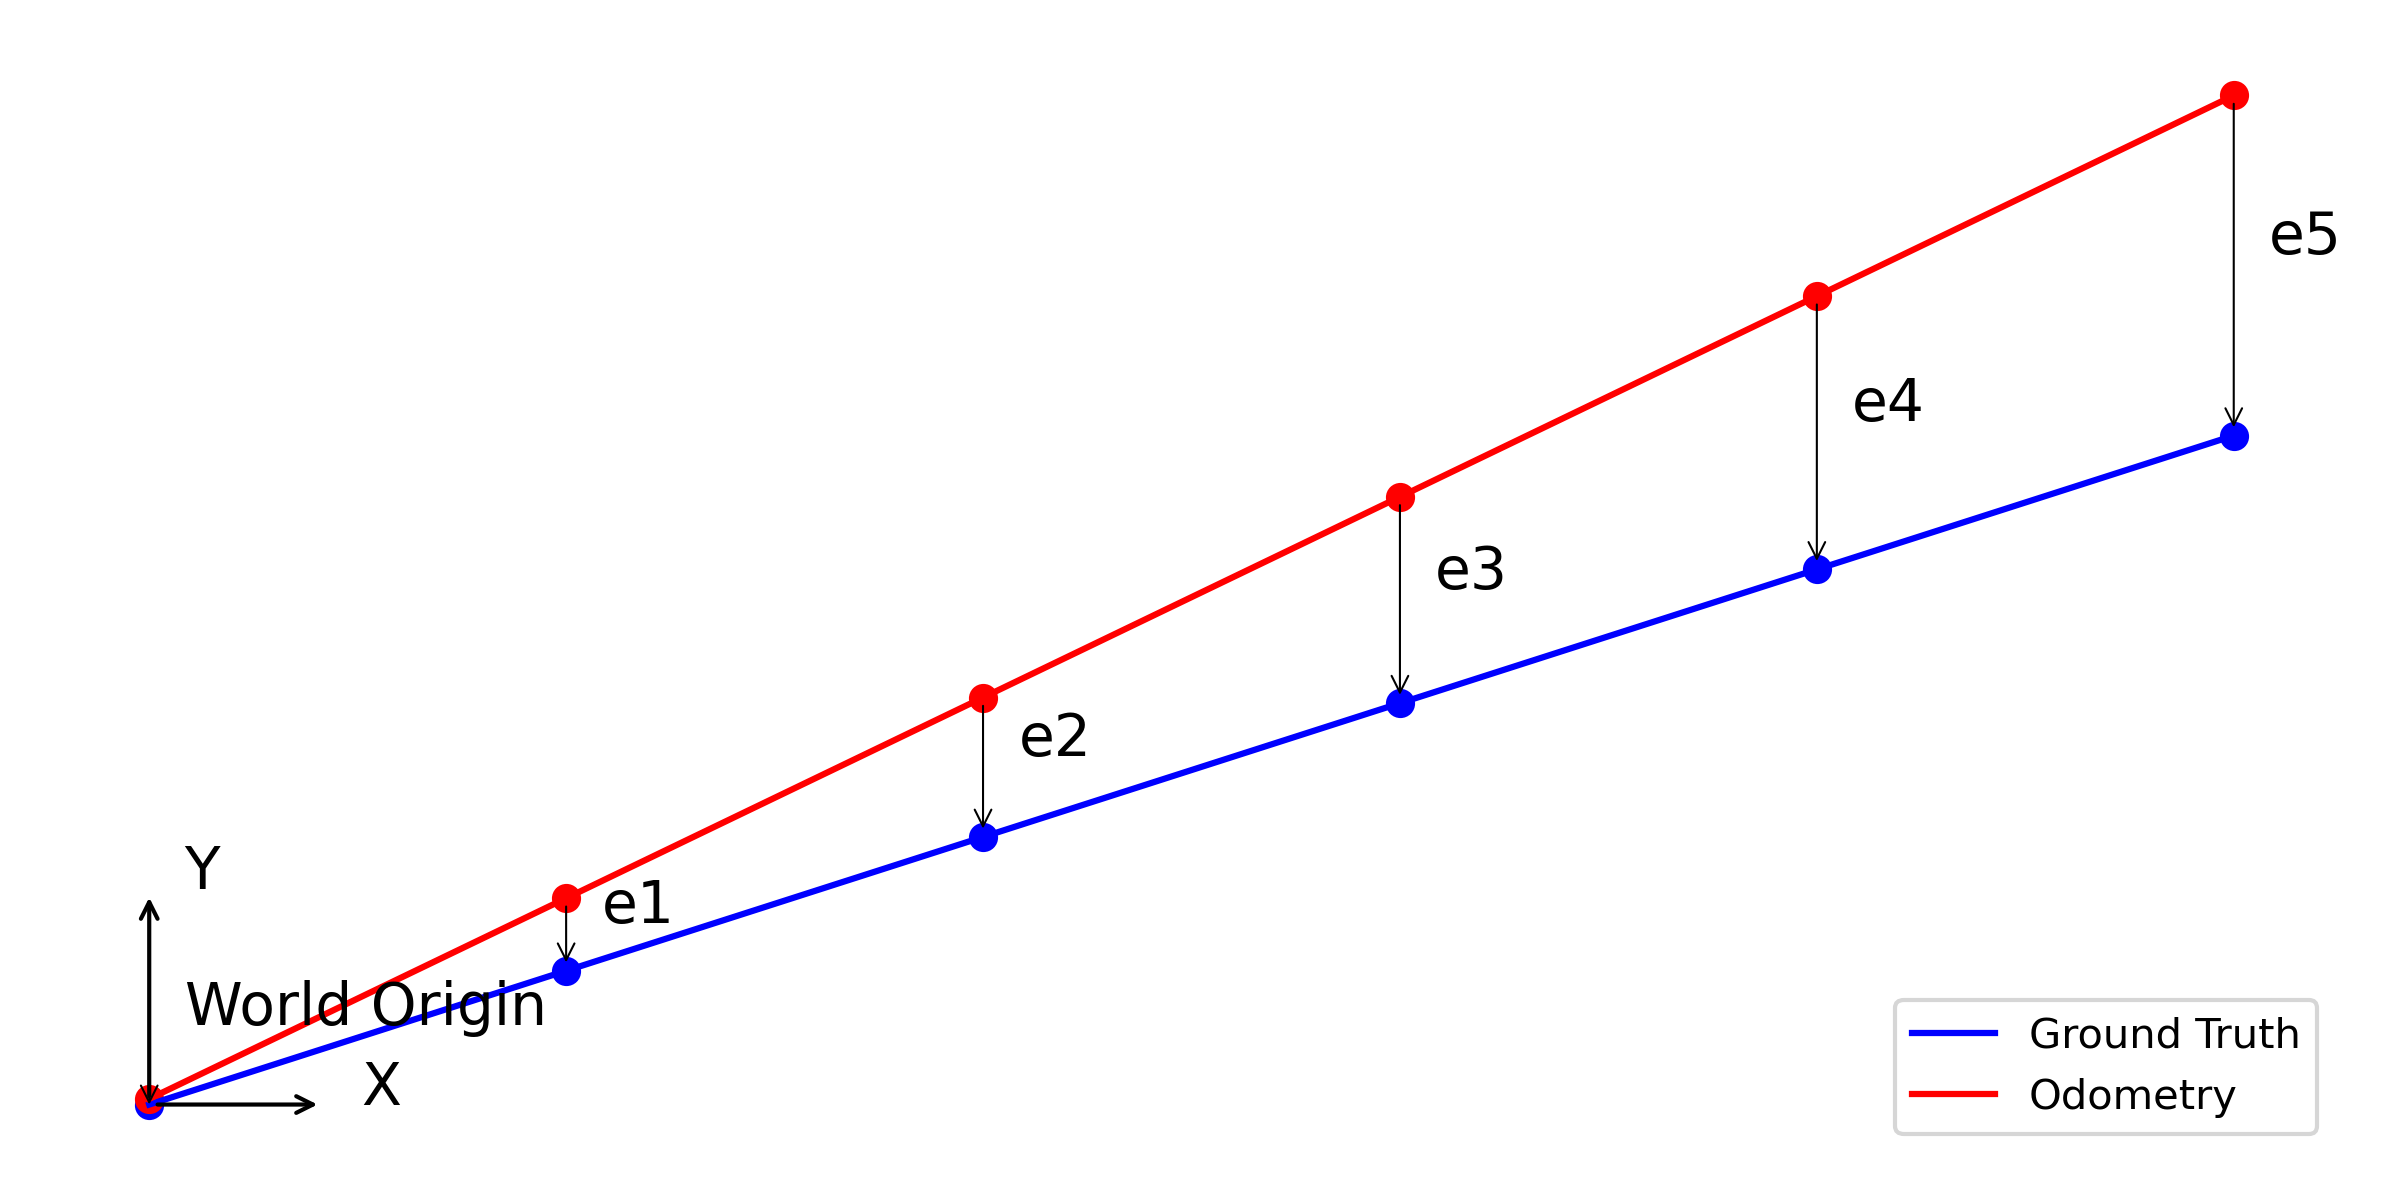
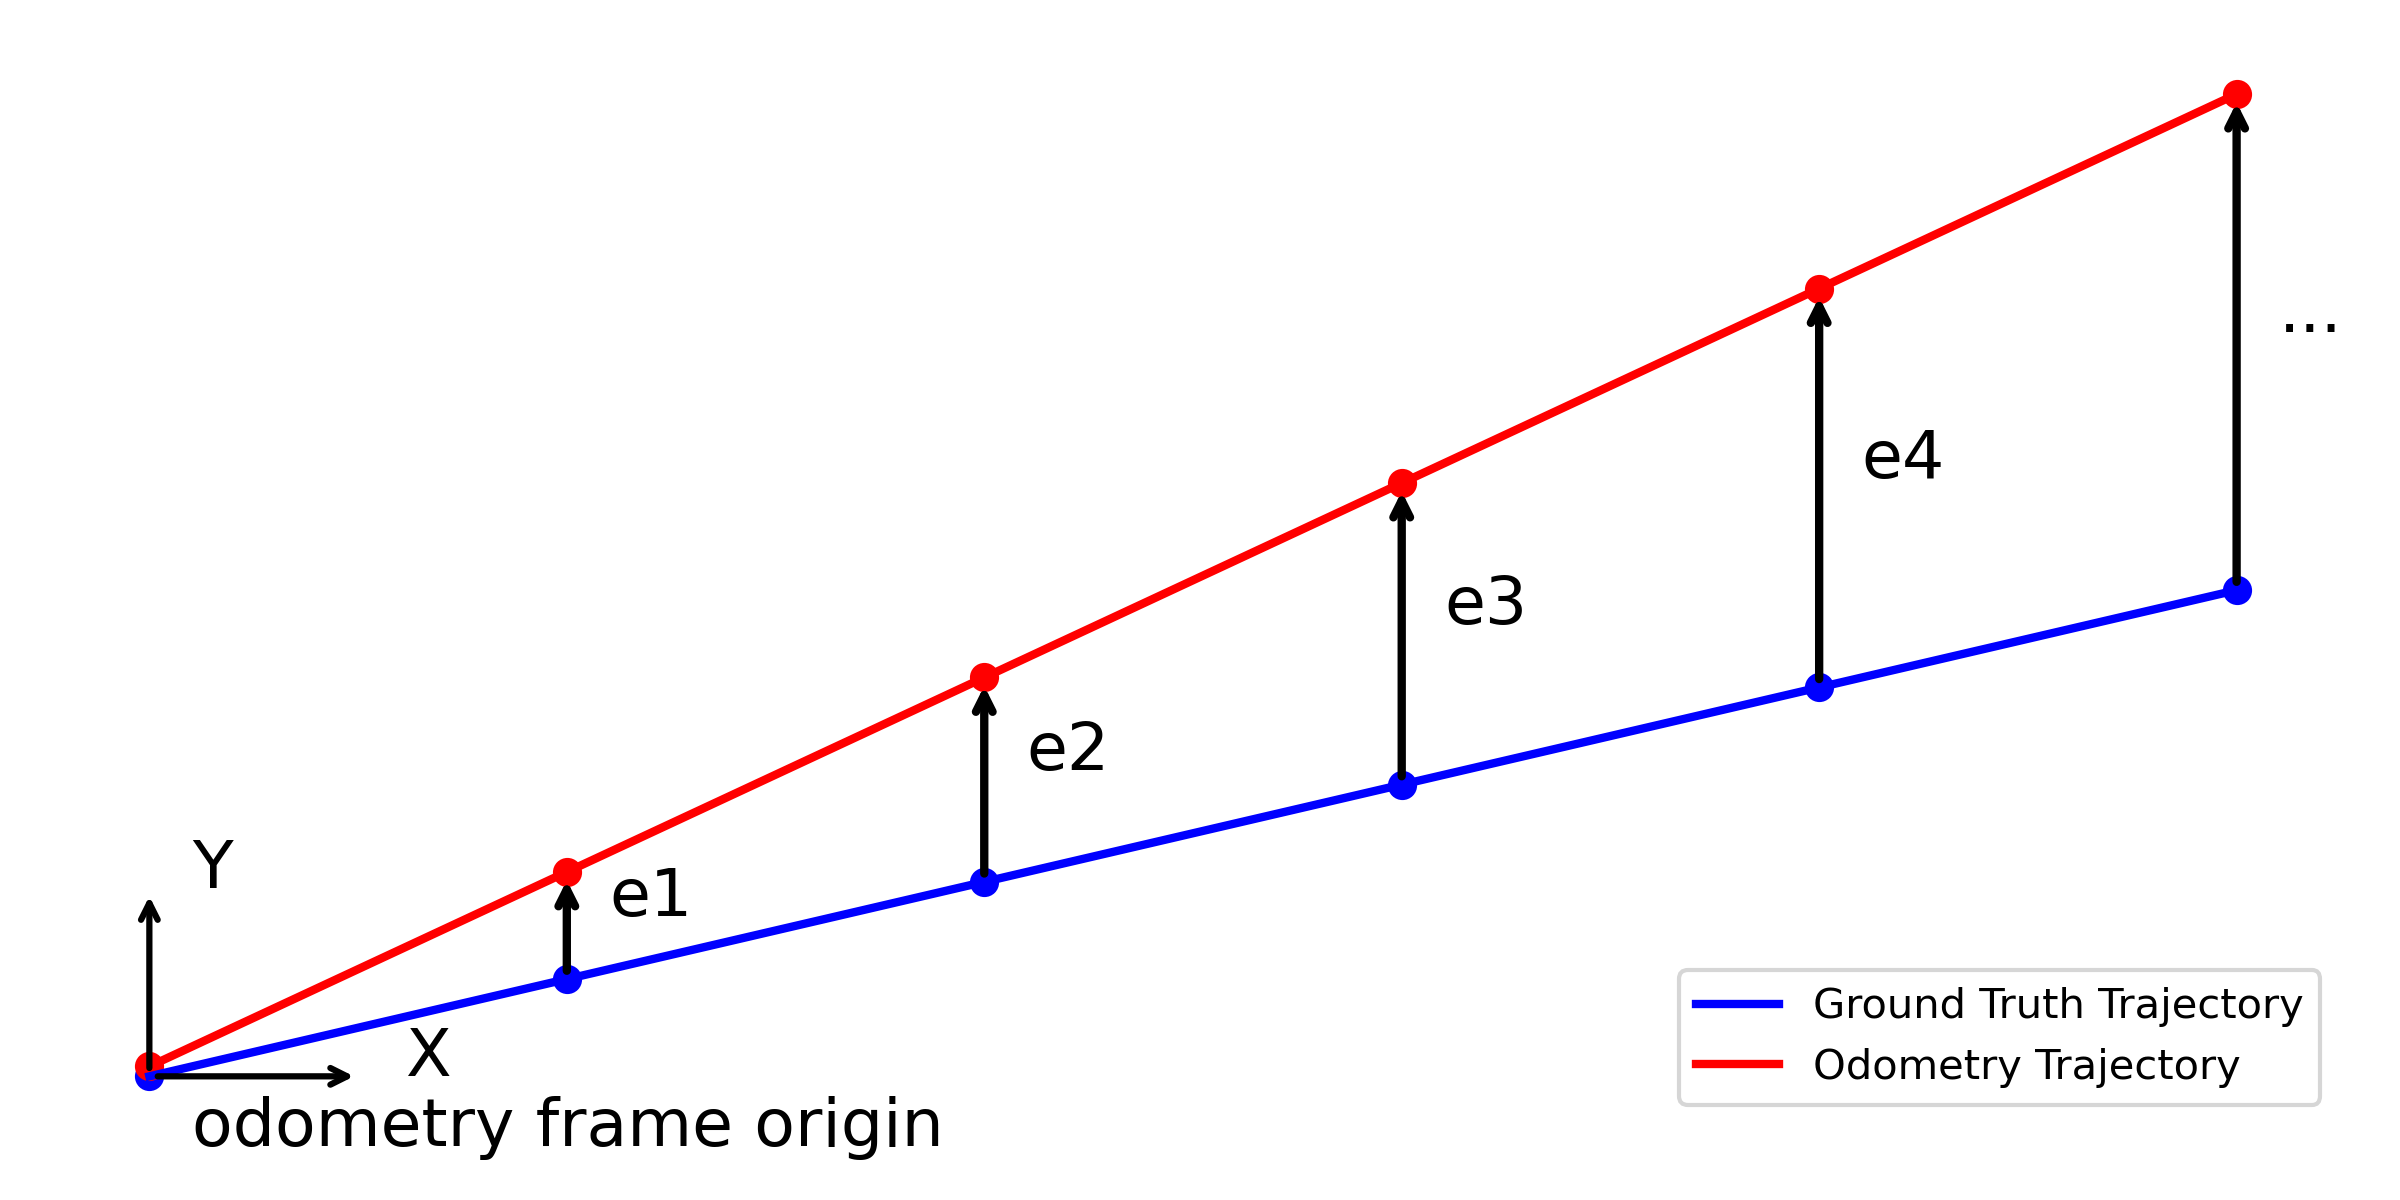
[quick-commit] update

diff --git a/chapters/ch07_experimentation_and_evaluation.tex b/chapters/ch07_experimentation_and_evaluation.tex
@@ -149,7 +149,7 @@
     
     \subsection{Trajectory Preprocessing and Comparisons}
     
-    For the evaluation, two main comparisons are considered. The first comparison is between the \gls{cvo} estimated trajectory and the ground truth trajectory. The second comparison is between the baseline odometry trajectory and the ground truth trajectory. The evaluation metrics are calculated for both comparisons. The evaluation is performed for a set of selected trajectories that are presented in Section~\ref{sec:experiment-site-terrain}. The ground truth pose estimates are recorded at a frequency of approximately $75$~Hz and the pose estimates from the \gls{cvoe} components are also logged at the same frequency. Even though the pose estimate samples are recorded at similar frequency, both data streams use different timestamps. To compare the two trajectories, the estimated timestamps and the ground truth timestamps are aligned. The data samples from the estimated trajectory are paired with the closest timestamp from the ground truth trajectory. Samples with the closest timestamp outside the allowed time difference are discarded. 
+    For the evaluation, two main comparisons are considered. The first comparison is between the \gls{cvo} estimated trajectory and the ground truth trajectory. The second comparison is between the baseline odometry trajectory and the ground truth trajectory. The evaluation metrics are calculated for both comparisons. The evaluation is performed for a set of selected trajectories that are presented in Section~\ref{sec:experiment-site-terrain}. The ground truth pose estimates are recorded at a frequency of approximately $75$~Hz and the pose estimates from the \gls{cvoe} components are also logged at the same frequency. Even though the pose estimate samples are recorded at similar frequency, both data streams use different timestamps. To compare the two trajectories, the estimated timestamps and the ground truth timestamps are aligned. The data samples from the estimated trajectory are paired with the closest timestamp from the ground truth trajectory. Samples with the closest timestamp outside the allowed time difference are discarded. After the alignment process, the estimated and the ground truth data streams have the same number of samples with the same timestamps. 
         
     Before comparing the trajectories, the initial pose of the estimated trajectory is aligned with the initial pose of the ground truth trajectory. The reference frame of the Vicon pose estimates is fixed and different from the odometry reference frame ($odom$) which is created at the starting location of the rover. The trajectories aligned by calculating the transformation between the initial pose of the estimated trajectory and the initial pose of the ground truth trajectory. The calculated transformation is applied to all the poses of the estimated trajectory. 
     
@@ -163,23 +163,60 @@
     \end{figure}
         
     \subsection{Relative Pose Error}
+    
+    The \gls{rpe} between the ground truth (gt) trajectory and the estimated (est) trajectory can be calculated using the following steps. Let a pose in the ground truth trajectory at index \texttt{i} is defined as Equation~\ref{eq:rpeGtPose} and a pose in estimated trajectory at the same index be defined as Equation~\ref{eq:rpeEstPose}. A distance based sliding window is created with the initial index \texttt{i} and a new index \texttt{j}, where $j>i$. Cumulative travel distance from the starting pose of the gt and every pose in the gt is calculated and stored. This cumulative distance is used when the sliding window is created. The window size is based on a pre-defined threshold value. This value is set to $0.5~m$ because SLAM algorithm runs every $0.5 m$ in translation.
+    
+    \begin{equation}
+        \mathbf{T}^{gt}_i =
+        \begin{bmatrix}
+            \mathbf{R}^{gt}_i & \mathbf{p}^{gt}_i \\
+            \mathbf{0} & 1
+        \end{bmatrix}
+    \label{eq:rpeGtPose}
+    \end{equation}
 
+    \begin{equation}
+        \mathbf{T}^{est}_i =
+        \begin{bmatrix}
+            \mathbf{R}^{est}_i & \mathbf{p}^{est}_i \\
+            \mathbf{0} & 1
+        \end{bmatrix}
+    \label{eq:rpeEstPose}
+    \end{equation}
+    
+    The Relative Pose Error is computed by comparing two relative poses, each derived from estimated and ground-truth trajectories independently. The first relative pose is obtained by transforming $\mathbf{T}^{est}_j$ into the local frame of $\mathbf{T}^{est}_i$. The second relative pose is obtained similarly by transforming $\mathbf{T}^{gt}_j$ into the local frame of $\mathbf{T}^{est}_i$. Since ${T}^{est}_i$ and $\mathbf{T}^{gt}_i$ do not coincide in the \texttt{odom} frame, each relative pose is expressed in its own local coordinate frame. The relative poses of gt and est are expressed as $\Delta\mathbf{T}^{gt}_{i,j}$ and $\Delta\mathbf{T}^{gt}_{i,j}$. The transformation of poses within the sliding window to their local frame and the calculation of \gls{rpe} are shown in Figure~\ref{fig:rpe_explanation_plot}
+        
     \begin{figure}[ht!]
         \centering
         \includegraphics[width=0.6\textwidth]{media/plots/rpe_explanation_plot_1.png}
         \includegraphics[width=0.6\textwidth]{media/plots/rpe_explanation_plot_2.png}
-        \caption{Relative Pose Error (RPE) explanation plot}
-        \label{fig:rpe_explanation_plot_1}  
+        \caption{Sliding Window based Relative Pose Error (RPE)}
+        \label{fig:rpe_explanation_plot}  
     \end{figure}
-    
-    % \begin{figure}[ht!]
-    %     \centering
-    %     \caption{Relative Pose Error (RPE) explanation plot}
-    %     \label{fig:rpe_explanation_plot_2}  
-    % \end{figure}
   
     
+    The relative translational error $\mathbf{p}^{err}_{i,j}$ is calculated as the difference between the relative pose from gt and est. The $\Delta \mathbf{p}^{est}_{i,j}$ and $\Delta \mathbf{p}^{gt}_{i,j}$ are position vectors extracted from the relative poses calculated using Equation~\ref{eq:transRelativeDiff}. Similarly, the orientation is expressed as quaternions and the orientation difference between the relative poses are calculated using Equation~\ref{eq:quatRelativeDiff}. The $\mathbf{p}^{err}_{i,j}$ and $\mathbf{q}^{err}_{i,j}$ are the \texttt{3D} position error vector and error quaternion respectively. 
     
+    \begin{equation}
+        \mathbf{p}^{err}_{i,j} = \Delta \mathbf{p}^{est}_{i,j} - \Delta \mathbf{p}^{gt}_{i,j}
+        \label{eq:transRelativeDiff}
+    \end{equation}
+    
+    \begin{equation}
+    \mathbf{q}^{err}_{i,j}
+    =
+    \left(
+        \Delta \mathbf{q}^{gt}_{i,j}
+    \right)^{-1}
+    \otimes
+    \Delta \mathbf{q}^{est}_{i,j}
+    \label{eq:quatRelativeDiff}
+    \end{equation}
+    
+    These error quantities are converted into scalar error values by taking the Euclidean norm of the translational error vector and the geodesic angle of the rotational error quaternion. Therefore, each sliding window produces one translational error in meters and one rotational error in radians. The sliding window is then shifted along the trajectory sample by sample until a valid sliding window cannot be created with the distance threshold. At the end of the trajectory, two lists of relative translation and rotation error is available. These values are used to calculate \gls{rmse} of translation and rotation error to quantify the error over the complete trajectory. 
+    
+    The \gls{rpe} metric is specifically useful in odometry evaluation because odometry is based on incremental motion estimation. Since, the metric computes the error between two relative poses within the sliding window, the influence of errors accumulated before the pose at index $i$ is reduced. This helps us determine the local consistency of the odometry without the influence of accumulated global errors.
+
     \subsection{Drift Rate}
 
     \subsection{Statistical Error Values}

diff --git a/report.tex b/report.tex
@@ -49,6 +49,7 @@
 \newacronym{dfki}{DFKI}{Deutsches Forschungszentrum fur Künstliche Intelligent GmbH}
 \newacronym{rpe}{RPE}{Relative Pose Error}
 \newacronym{ape}{APE}{Absolute Pose Error}
+\newacronym{rmse}{RMSE}{Root Mean Square Error}
 
 \lstdefinestyle{orogenstyle}{
     language=Ruby,